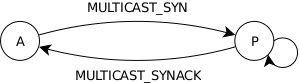
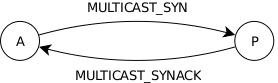
Wed Dec  2 00:47:27 UTC 2009  Steven Stallion  <stallions@ociweb.com>
git-svn-id: svn://svn.dre.vanderbilt.edu/DOC/DDS@2683 1d620576-631a-0410-9fb9-985d35bca4c5

Changed region(s): [[0.0, 0.241, 1.0, 0.8193], [0.2302, 0.8434, 0.7482, 1.0], [0.2878, 0.0241, 0.6906, 0.1928]]

diff --git a/trunk/docs/html/multicast/index.html b/trunk/docs/html/multicast/index.html
@@ -511,14 +511,14 @@ Also see [[AdvancedOptions]]</pre>
 </div>
 <!--POST-SHADOWAREA-->
 <div id="storeArea">
-<div title="ClassDiagram" modifier="StevenStallion" created="200911302323" modified="200912010036" changecount="8">
+<div title="Class Diagram" modifier="Steven Stallion" created="200912011933" modified="200912012157" changecount="2">
 <pre>[img[Class Diagram|images/class.png]]</pre>
 </div>
-<div title="ColorPalette" modifier="YourName" created="200911302008" modified="200912010332" changecount="15">
+<div title="ColorPalette" modifier="Steven Stallion" created="200911302008" modified="200912011920" changecount="17">
 <pre>Background: #fff
 Foreground: #000
-PrimaryPale: #666
-PrimaryLight: #900
+PrimaryPale: #eee
+PrimaryLight: #ccc
 PrimaryMid: #600
 PrimaryDark: #600
 SecondaryPale: #eee
@@ -532,128 +532,147 @@ TertiaryDark: #666
 Error: #f88
 </pre>
 </div>
-<div title="DefaultTiddlers" modifier="StevenStallion" created="200911302327" changecount="1">
+<div title="Configuration" modifier="Steven Stallion" created="200912011939" modified="200912012324" changecount="21">
+<pre>As with other transports, the multicast transport supports dynamic configuration using the ACE Service Configurator Framework. A svc.conf file should be created which contains the following:
+{{{
+dynamic OpenDDS_DCPS_Multicast_Service Service_Object * OpenDDS_Multicast:_make_MulticastLoader()
+}}}
+It may then be loaded dynamically at runtime by passing the following arguments:
+{{{
+-ORBSvcConf  svc.conf
+}}}
+Alternately, the multicast transport may be statically loaded by including the {{{Multicast.h}}} header (implies static linking):
+{{{
+#ifdef ACE_AS_STATIC_LIBS
+# include &lt;dds/DCPS/transport/multicast/Multicast.h&gt;
+#endif
+}}}
+A number of additional transport configuration options are available:
+{{{
+# Enable/disable IPv6 default group address selection.
+# The default value is 0 (disabled).
+default_to_ipv6=0
+
+# The offset used to determine default port numbers;
+# this value will be added to the transportId. The
+# default value is: 49400.
+port_offset=49400
+
+# The multicast group address from which to send and/or
+# receive data. The default group addresses are:
+#   224.0.0.128:&lt;port&gt; (IPv4), and
+#    [FF01::80]:&lt;port&gt; (IPv6)
+group_address=224.0.0.128:49401
+group_address=[FF01::80]:49401
+
+# Enable/disable reliable communication. This option
+# will eventually be deprecated. The default value
+# is 1 (enabled).
+reliable=1
+
+# The maximum number of milliseconds to wait between
+# handshake attempts during association (reliable only).
+# The default value is 500.
+syn_interval=500
+
+# The maximum number of milliseconds to wait for a
+# SYNACK response during association (reliable only).
+# The default value is 30000 (30 seconds).
+syn_timeout=30000
+
+# The maximum number of milliseconds to wait between
+# repair requests (reliable only). The default value
+# is 2000 (2 seconds).
+nak_interval=2000
+
+# The maximum number of milliseconds to wait before
+# giving up on a NAK response (reliable only). The
+# default value is 30000 (30 seconds).
+nak_timeout=30000
+
+# The number of DCPS datagrams to retain in order to
+# service incoming repair requests (reliable only).
+# The default value is 32.
+nak_repair_size=32
+}}}
+Default examples of these files are provided under the {{{$DDS_ROOT/dds/DCPS/transport/multicast/}}} directory.</pre>
+</div>
+<div title="DefaultTiddlers" modifier="Steven Stallion" created="200912011933" modified="200912012032" changecount="5">
 <pre>[[Overview]]
-[[ClassDiagram]]</pre>
+[[Class Diagram]]
+[[Reliability]]
+[[Configuration]]
+[[Known Issues]]
+[[Future Tasks]]</pre>
 </div>
-<div title="DisableWikiLinksPlugin" modifier="ELSDesignStudios" created="200512092239" modified="200807230133" tags="systemConfig">
-<pre>/***
-|Name|DisableWikiLinksPlugin|
-|Source|http://www.TiddlyTools.com/#DisableWikiLinksPlugin|
-|Version|1.6.0|
-|Author|Eric Shulman|
-|License|http://www.TiddlyTools.com/#LegalStatements|
-|~CoreVersion|2.1|
-|Type|plugin|
-|Description|selectively disable TiddlyWiki's automatic ~WikiWord linking behavior|
-This plugin allows you to disable TiddlyWiki's automatic ~WikiWord linking behavior, so that WikiWords embedded in tiddler content will be rendered as regular text, instead of being automatically converted to tiddler links.  To create a tiddler link when automatic linking is disabled, you must enclose the link text within {{{[[...]]}}}.
-!!!!!Usage
-&lt;&lt;&lt;
-You can block automatic WikiWord linking behavior for any specific tiddler by ''tagging it with&lt;&lt;tag excludeWikiWords&gt;&gt;'' (see configuration below) or, check a plugin option to disable automatic WikiWord links to non-existing tiddler titles, while still linking WikiWords that correspond to existing tiddlers titles or shadow tiddler titles.  You can also block specific selected WikiWords from being automatically linked by listing them in [[DisableWikiLinksList]] (see configuration below), separated by whitespace.  This tiddler is optional and, when present, causes the listed words to always be excluded, even if automatic linking of other WikiWords is being permitted.  
+<div title="Future Tasks" modifier="Steven Stallion" created="200912011940" modified="200912012328" changecount="24">
+<pre>An exponential backoff should be introduced to prevent SYN flooding in large multicast groups. See: {{{OpenDDS::DCPS::SynWatchdog}}}
 
-Note: WikiWords contained in default ''shadow'' tiddlers will be automatically linked unless you select an additional checkbox option lets you disable these automatic links as well, though this is not recommended, since it can make it more difficult to access some TiddlyWiki standard default content (such as AdvancedOptions or SideBarTabs)
-&lt;&lt;&lt;
-!!!!!Configuration
-&lt;&lt;&lt;
-&lt;&lt;option chkDisableWikiLinks&gt;&gt; Disable ALL automatic WikiWord tiddler links
-&lt;&lt;option chkAllowLinksFromShadowTiddlers&gt;&gt; ... except for WikiWords //contained in// shadow tiddlers
-&lt;&lt;option chkDisableNonExistingWikiLinks&gt;&gt; Disable automatic WikiWord links for non-existing tiddlers
-Disable automatic WikiWord links for words listed in: &lt;&lt;option txtDisableWikiLinksList&gt;&gt;
-Disable automatic WikiWord links for tiddlers tagged with: &lt;&lt;option txtDisableWikiLinksTag&gt;&gt;
-&lt;&lt;&lt;
-!!!!!Revisions
-&lt;&lt;&lt;
-2008.07.22 [1.6.0] hijack tiddler changed() method to filter disabled wiki words from internal links[] array (so they won't appear in the missing tiddlers list)
-2007.06.09 [1.5.0] added configurable txtDisableWikiLinksTag (default value: &quot;excludeWikiWords&quot;) to allows selective disabling of automatic WikiWord links for any tiddler tagged with that value.
-2006.12.31 [1.4.0] in formatter, test for chkDisableNonExistingWikiLinks
-2006.12.09 [1.3.0] in formatter, test for excluded wiki words specified in DisableWikiLinksList
-2006.12.09 [1.2.2] fix logic in autoLinkWikiWords() (was allowing links TO shadow tiddlers, even when chkDisableWikiLinks is TRUE).  
-2006.12.09 [1.2.1] revised logic for handling links in shadow content
-2006.12.08 [1.2.0] added hijack of Tiddler.prototype.autoLinkWikiWords so regular (non-bracketed) WikiWords won't be added to the missing list
-2006.05.24 [1.1.0] added option to NOT bypass automatic wikiword links when displaying default shadow content (default is to auto-link shadow content)
-2006.02.05 [1.0.1] wrapped wikifier hijack in init function to eliminate globals and avoid FireFox 1.5.0.1 crash bug when referencing globals
-2005.12.09 [1.0.0] initial release
-&lt;&lt;&lt;
-!!!!!Code
-***/
-//{{{
-version.extensions.DisableWikiLinksPlugin= {major: 1, minor: 6, revision: 0, date: new Date(2008,7,22)};
+A random backoff should be introduced to prevent NAK implosions in large multicast groups. See: {{{OpenDDS::DCPS::NakWatchdog}}}
 
-if (config.options.chkDisableNonExistingWikiLinks==undefined) config.options.chkDisableNonExistingWikiLinks= false;
-if (config.options.chkDisableWikiLinks==undefined) config.options.chkDisableWikiLinks=false;
-if (config.options.txtDisableWikiLinksList==undefined) config.options.txtDisableWikiLinksList=&quot;DisableWikiLinksList&quot;;
-if (config.options.chkAllowLinksFromShadowTiddlers==undefined) config.options.chkAllowLinksFromShadowTiddlers=true;
-if (config.options.txtDisableWikiLinksTag==undefined) config.options.txtDisableWikiLinksTag=&quot;excludeWikiWords&quot;;
+NAK suppression for ranges requested by other peers within the same interval should be implemented to prevent NAK implosions in large multicast groups.
 
-// find the formatter for wikiLink and replace handler with 'pass-thru' rendering
-initDisableWikiLinksFormatter();
-function initDisableWikiLinksFormatter() {
-	for (var i=0; i&lt;config.formatters.length &amp;&amp; config.formatters[i].name!=&quot;wikiLink&quot;; i++);
-	config.formatters[i].coreHandler=config.formatters[i].handler;
-	config.formatters[i].handler=function(w) {
-		// supress any leading &quot;~&quot; (if present)
-		var skip=(w.matchText.substr(0,1)==config.textPrimitives.unWikiLink)?1:0;
-		var title=w.matchText.substr(skip);
-		var exists=store.tiddlerExists(title);
-		var inShadow=w.tiddler &amp;&amp; store.isShadowTiddler(w.tiddler.title);
-		// check for excluded Tiddler
-		if (w.tiddler &amp;&amp; w.tiddler.isTagged(config.options.txtDisableWikiLinksTag))
-			{ w.outputText(w.output,w.matchStart+skip,w.nextMatch); return; }
-		// check for specific excluded wiki words
-		var t=store.getTiddlerText(config.options.txtDisableWikiLinksList);
-		if (t &amp;&amp; t.length &amp;&amp; t.indexOf(w.matchText)!=-1)
-			{ w.outputText(w.output,w.matchStart+skip,w.nextMatch); return; }
-		// if not disabling links from shadows (default setting)
-		if (config.options.chkAllowLinksFromShadowTiddlers &amp;&amp; inShadow)
-			return this.coreHandler(w);
-		// check for non-existing non-shadow tiddler
-		if (config.options.chkDisableNonExistingWikiLinks &amp;&amp; !exists)
-			{ w.outputText(w.output,w.matchStart+skip,w.nextMatch); return; }
-		// if not enabled, just do standard WikiWord link formatting
-		if (!config.options.chkDisableWikiLinks)
-			return this.coreHandler(w);
-		// just return text without linking
-		w.outputText(w.output,w.matchStart+skip,w.nextMatch)
-	}
-}
+An FEC mechanism should be introduced to reduce repair requests and to provide an additional source from which to detect reception gaps apart from {{{LIVELINESS}}}.
 
-Tiddler.prototype.coreAutoLinkWikiWords = Tiddler.prototype.autoLinkWikiWords;
-Tiddler.prototype.autoLinkWikiWords = function()
-{
-	// if all automatic links are not disabled, just return results from core function
-	if (!config.options.chkDisableWikiLinks)
-		return this.coreAutoLinkWikiWords.apply(this,arguments);
-	return false;
-}
+SYNACK's should be predicated on association status to prevent potential denial of service attacks (not currently supported by the ETF).
 
-Tiddler.prototype.disableWikiLinks_changed = Tiddler.prototype.changed;
-Tiddler.prototype.changed = function()
-{
-	this.disableWikiLinks_changed.apply(this,arguments);
-	// remove excluded wiki words from links array
-	var t=store.getTiddlerText(config.options.txtDisableWikiLinksList,&quot;&quot;).readBracketedList();
-	if (t.length) for (var i=0; i&lt;t.length; i++)
-		if (this.links.contains(t[i]))
-			this.links.splice(this.links.indexOf(t[i]),1);
-};
-//}}}</pre>
+{{{DataLink}}}s should be allowed to initiate the removal of an association based on reliability status (not currently supported by the ETF).</pre>
 </div>
-<div title="HandshakeDiagram" modifier="StevenStallion" created="200912010036" changecount="1">
-<pre>[img[Handshake Diagram|images/handshake.png]]</pre>
+<div title="Known Issues" modifier="Steven Stallion" created="200912012032" modified="200912012327" changecount="26">
+<pre>{{{TRANSPORT_PRIORITY}}} is not directly supported by this transport. This is partially due to routing restrictions placed on default group addresses as the selection heuristic assigns from the link-local range. Setting the TOS would provide little to no benefit for multicast datagrams at the cost of additional complexity managing n-way associations by priority key.
+
+Reliability must be configured via the {{{reliable}}} transport configuration option as the ETF currently multiplexes best-effort and reliable data samples across the same {{{DataLink}}}; this effectively disables autonegotiation of reliability between peers at the transport level.
+
+{{{nak_repair_size}}} may not exceed {{{16384}}} due to limits imposed by {{{OpenDDS::DCPS::SequenceNumber}}} comparisons. See: {{{$DDS_ROOT/dds/DCPS/Definitions.h}}}
+
+The current implementation relies on {{{LIVELINESS}}} to periodically send application-level heartbeat messages to aid in detecting reception gaps. If {{{AUTOMATIC_LIVELINESS_QOS}}} (the default) is not used, peers may not detect these gaps in a timely manner leading to unrecoverable data loss.
+
+The current implementation relies on the transport reactor being derived from {{{ACE_Select_Reactor}}}; this ensures only a single thread may be active when sending/receiving data. If the transport reactor implementation is changed, additional locks must be introduced to protect critical sections.</pre>
 </div>
-<div title="MainMenu" modifier="StevenStallion" created="200911302324" modified="200911302327" changecount="2">
+<div title="MainMenu" modifier="Steven Stallion" created="200912011934" modified="200912012032" changecount="7">
 <pre>[[Overview]]
-[[ClassDiagram]]</pre>
+[[Class Diagram]]
+[[Reliability]]
+[[Configuration]]
+[[Known Issues]]
+[[Future Tasks]]</pre>
 </div>
-<div title="OpenDDS" modifier="StevenStallion" created="200911302157" tags="OpenDDS" changecount="1">
+<div title="OpenDDS" modifier="Steven Stallion" created="200911302157" tags="OpenDDS" changecount="1">
 <pre>OpenDDS is an open source C++ implementation of the Object Management Group (OMG) Data Distribution Service (DDS). OpenDDS also supports Java bindings through JNI and can be included with JBoss (ESB) frameworks by means of a JMS wrapper. OpenDDS leverages the ADAPTIVE Communication Environment (ACE) to provide a cross platform environment.
 
 OpenDDS is supported by [[Object Computing, Inc.|http://www.ociweb.com/]]</pre>
 </div>
-<div title="Overview" modifier="StevenStallion" created="200911302318" modified="200911302323" changecount="3">
-<pre>Overview...</pre>
+<div title="Overview" modifier="Steven Stallion" created="200912011932" modified="200912020033" changecount="78">
+<pre>Starting with the OpenDDS 2.1 release, a new multicast transport is available which replaces the {{{SimpleMcast}}} and {{{ReliableMulticast}}} transports. The source for the {{{multicast}}} transport may be found under {{{$DDS_ROOT/dds/DCPS/transport/multicast/}}} and is available under the general OpenDDS license. 
+
+What follows is a detailed overview of the design, configuration, known issues, and potential future enhancements for the {{{multicast}}} transport:
+
+Unlike other transports, multicast reservations are formed between {{{DomainParticipant}}}s rather than individual publications and subscriptions. This allows any number of associations  belonging to the same pair of participants to re-use an existing {{{DataLink}}}, thereby reducing the amount of resources needed in multicast intensive environments. Another departure is unified support for best-effort and reliable delivery (based on transport configuration). Delivery-specific behavior is consolidated into each concrete {{{MulticastDataLink}}} implementation which allows for the same set of transport strategies to be used regardless of delivery mode.
+
+Two delivery modes are supported: best-effort and reliable.
+* Best-effort delivery imposes the least amount of processing as data is exchanged between peers, however it does not provide any guarantee of reception. Data may be lost due to unresponsive or unreachable peers or received in duplicate. See: {{{OpenDDS::DCPS::BestEffortMulticast}}}
+* Reliable delivery provides for guaranteed delivery of data to associated peers with no duplicates at the cost of additional processing. See: {{{OpenDDS::DCPS::ReliableMulticast}}}
+When a new reservation is made, a remote and local peer identifier is created based on the participant ID of the associated entities. These ~IDs are used to identify each peer within the multicast group. The ETF will always designate the publishing side of the association as the active side of a given {{{DataLink}}}. An active peer will have many passive peers it is associated with and vice-versa. Multicast datagrams will always have the peer ID in the source field of the transport header. See: {{{OpenDDS::DCPS::TransportHeader}}}
+
+The {{{multicast}}} transport may be configured and attached similarly to other transport implementations:
+{{{
+OpenDDS::DCPS::TransportImpl_rch transport_impl =
+  TheTransportFactory-&gt;create_transport_impl(OpenDDS::DCPS::DEFAULT_MULTICAST_ID,
+                                             OpenDDS::DCPS::AUTO_CONFIG);
+
+OpenDDS::DCPS::AttachStatus status = transport_impl-&gt;attach(...);
+if (status != OpenDDS::DCPS::ATTACH_OK) {
+  exit(EXIT_FAILURE);
+}
+}}}
+An MPC base project is also provided for linking against the {{{OpenDDS_Multicast}}} library:
+{{{
+project : dcps_multicast {
+  ...
+}
+}}}</pre>
 </div>
-<div title="PageTemplate" modifier="StevenStallion" created="200911302019" modified="200911302100" changecount="2">
+<div title="PageTemplate" modifier="Steven Stallion" created="200911302019" modified="200911302100" changecount="2">
 <pre>&lt;!--{{{--&gt;
 &lt;div class='header'&gt;
 &lt;div class='headerForeground'&gt;
@@ -672,22 +691,45 @@ OpenDDS is supported by [[Object Computing, Inc.|http://www.ociweb.com/]]</pre>
 &lt;/div&gt;
 &lt;!--}}}--&gt;</pre>
 </div>
-<div title="RepairDiagram" modifier="StevenStallion" created="200912010036" changecount="1">
-<pre>[img[Repair Diagram|images/repair.png]]</pre>
+<div title="Reliability" modifier="Steven Stallion" created="200912011934" modified="200912020046" changecount="71">
+<pre>DCPS control samples were chosen in lieu of more traditional ~PDUs for the exchange of control information between peers. This allows the transport to leverage existing functionality such as byte ordering and efficient marshaling/demarshaling of data at the cost of a slightly increased payload size.
+
+Reliable delivery is achieved through two primary mechanisms:
+* 2-way peer handshaking (SYN/SYNACK)
+* Negative acknowledgment of missing data (NAK/NAKACK)
+For the purposes of examining the interaction between reliable peers, it helps to narrow our view of the multicast group to two specific peers: The active peer is the publishing side of the {{{DataLink}}}; the passive side will be the //first// peer associated with the link when it was created. It is important to remember that control data will be exchanged among all peers within the multicast group, however disinterested peers will discard any data which is not addressed to them directly.
+!!SYN/SYNACK
+[&lt;img[images/handshake.png]]
+The active peer initiates the handshake by sending {{{MULTICAST_SYN}}} control samples to a specific remote peer at a fixed interval bounded by a timeout.
+
+Upon receiving the {{{MULTICAST_SYN}}} control sample, the passive peer records the current transport sequence value for the active peer and responds with a {{{MULTICAST_SYNACK}}} control sample. This sequence number establishes a value from which we can begin to identify reception gaps.
+
+If the active peer receives the {{{MULTICAST_SYNACK}}} control sample, it then notifies the ETF that the association is valid which will in turn trigger a communication status transition in the DCPS layer. In the event a {{{MULTICAST_SYNACK}}} control sample is not received, an error is logged.
+!!NAK/NAKACK
+[&gt;img[images/repair.png]]
+As each datagram is delivered to the {{{DataLink}}}, the transport sequence value is recorded. Periodically, a watchdog executes and examines the history of datagrams received for reception gaps. The watchdog will first age off any outstanding repair requests which have not been fulfilled by resetting the sequence low-water mark and logging an error. In the event a new reception gap is identified, the {{{DataLink}}} records the current interval and the high-water mark for the received data. It will then issue {{{MULTICAST_NAK}}} control samples to all active peers from which it is missing data.
+
+If the active peer receives a {{{MULTICAST_NAK}}} control sample it examines its send buffer for the missing datagram. If the datagram is no longer available, it sends a {{{MULTICAST_NAKACK}}} control sample to the entire multicast group to suppress further repair requests. If the datagram is still available, it resends the missing data to the entire multicast group.
+
+If the passive peer instead receives a {{{MULTICAST_NAKACK}}} control sample, it will behave just asif the repair request has aged off, suppressing further repair requests.</pre>
 </div>
-<div title="SideBarOptions" modifier="StevenStallion" created="200911302023" changecount="1">
+<div title="SideBarOptions" modifier="Steven Stallion" created="200911302023" changecount="1">
 <pre>&lt;&lt;search&gt;&gt;&lt;&lt;closeAll&gt;&gt;&lt;&lt;permaview&gt;&gt;&lt;&lt;newTiddler&gt;&gt;&lt;&lt;saveChanges&gt;&gt;&lt;&lt;slider chkSliderOptionsPanel OptionsPanel &quot;options »&quot; &quot;Change TiddlyWiki advanced options&quot;&gt;&gt;</pre>
 </div>
-<div title="SiteSubtitle" modifier="StevenStallion" created="200911302000" modified="200911302202" tags="OpenDDS" changecount="2">
+<div title="SiteSubtitle" modifier="Steven Stallion" created="200911302000" modified="200912011939" tags="OpenDDS" changecount="2">
 <pre>Multicast Transport Design</pre>
 </div>
-<div title="SiteTitle" modifier="StevenStallion" created="200911301959" tags="OpenDDS" changecount="1">
+<div title="SiteTitle" modifier="Steven Stallion" created="200911301959" tags="OpenDDS" changecount="1">
 <pre>OpenDDS</pre>
 </div>
-<div title="SiteUrl" modifier="StevenStallion" created="200911302027" changecount="1">
+<div title="SiteUrl" modifier="Steven Stallion" created="200911302027" changecount="1">
 <pre>http://www.ociweb.com/</pre>
 </div>
-<div title="StyleSheet" modifier="StevenStallion" created="200911302014" modified="200911302202" changecount="54">
+<div title="Steven Stallion" modifier="Steven Stallion" created="200912011920" changecount="1">
+<pre>Senior Software Engineer
+[[Object Computing, Inc.|http://www.ociweb.com/]]</pre>
+</div>
+<div title="StyleSheet" modifier="Steven Stallion" created="200911302014" modified="200912011927" changecount="55">
 <pre>a:hover {
     text-decoration: none;
 }
@@ -703,6 +745,11 @@ OpenDDS is supported by [[Object Computing, Inc.|http://www.ociweb.com/]]</pre>
     border-bottom: 1px solid [[ColorPalette::SecondaryLight]];
 }
 
+.headerForeground a {
+    color:[[ColorPalette::SecondaryDark]];
+    font-weight: bold;
+}
+
 .siteTitle {
     font-weight: bold;
 }
@@ -715,7 +762,7 @@ OpenDDS is supported by [[Object Computing, Inc.|http://www.ociweb.com/]]</pre>
     float: right;
 }</pre>
 </div>
-<div title="StyleSheetColors" modifier="StevenStallion" created="200911302020" modified="200911302134" changecount="5">
+<div title="StyleSheetColors" modifier="Steven Stallion" created="200911302020" modified="200911302134" changecount="5">
 <pre>/*{{{*/
 body {background:[[ColorPalette::Background]]; color:[[ColorPalette::Foreground]];}
 
